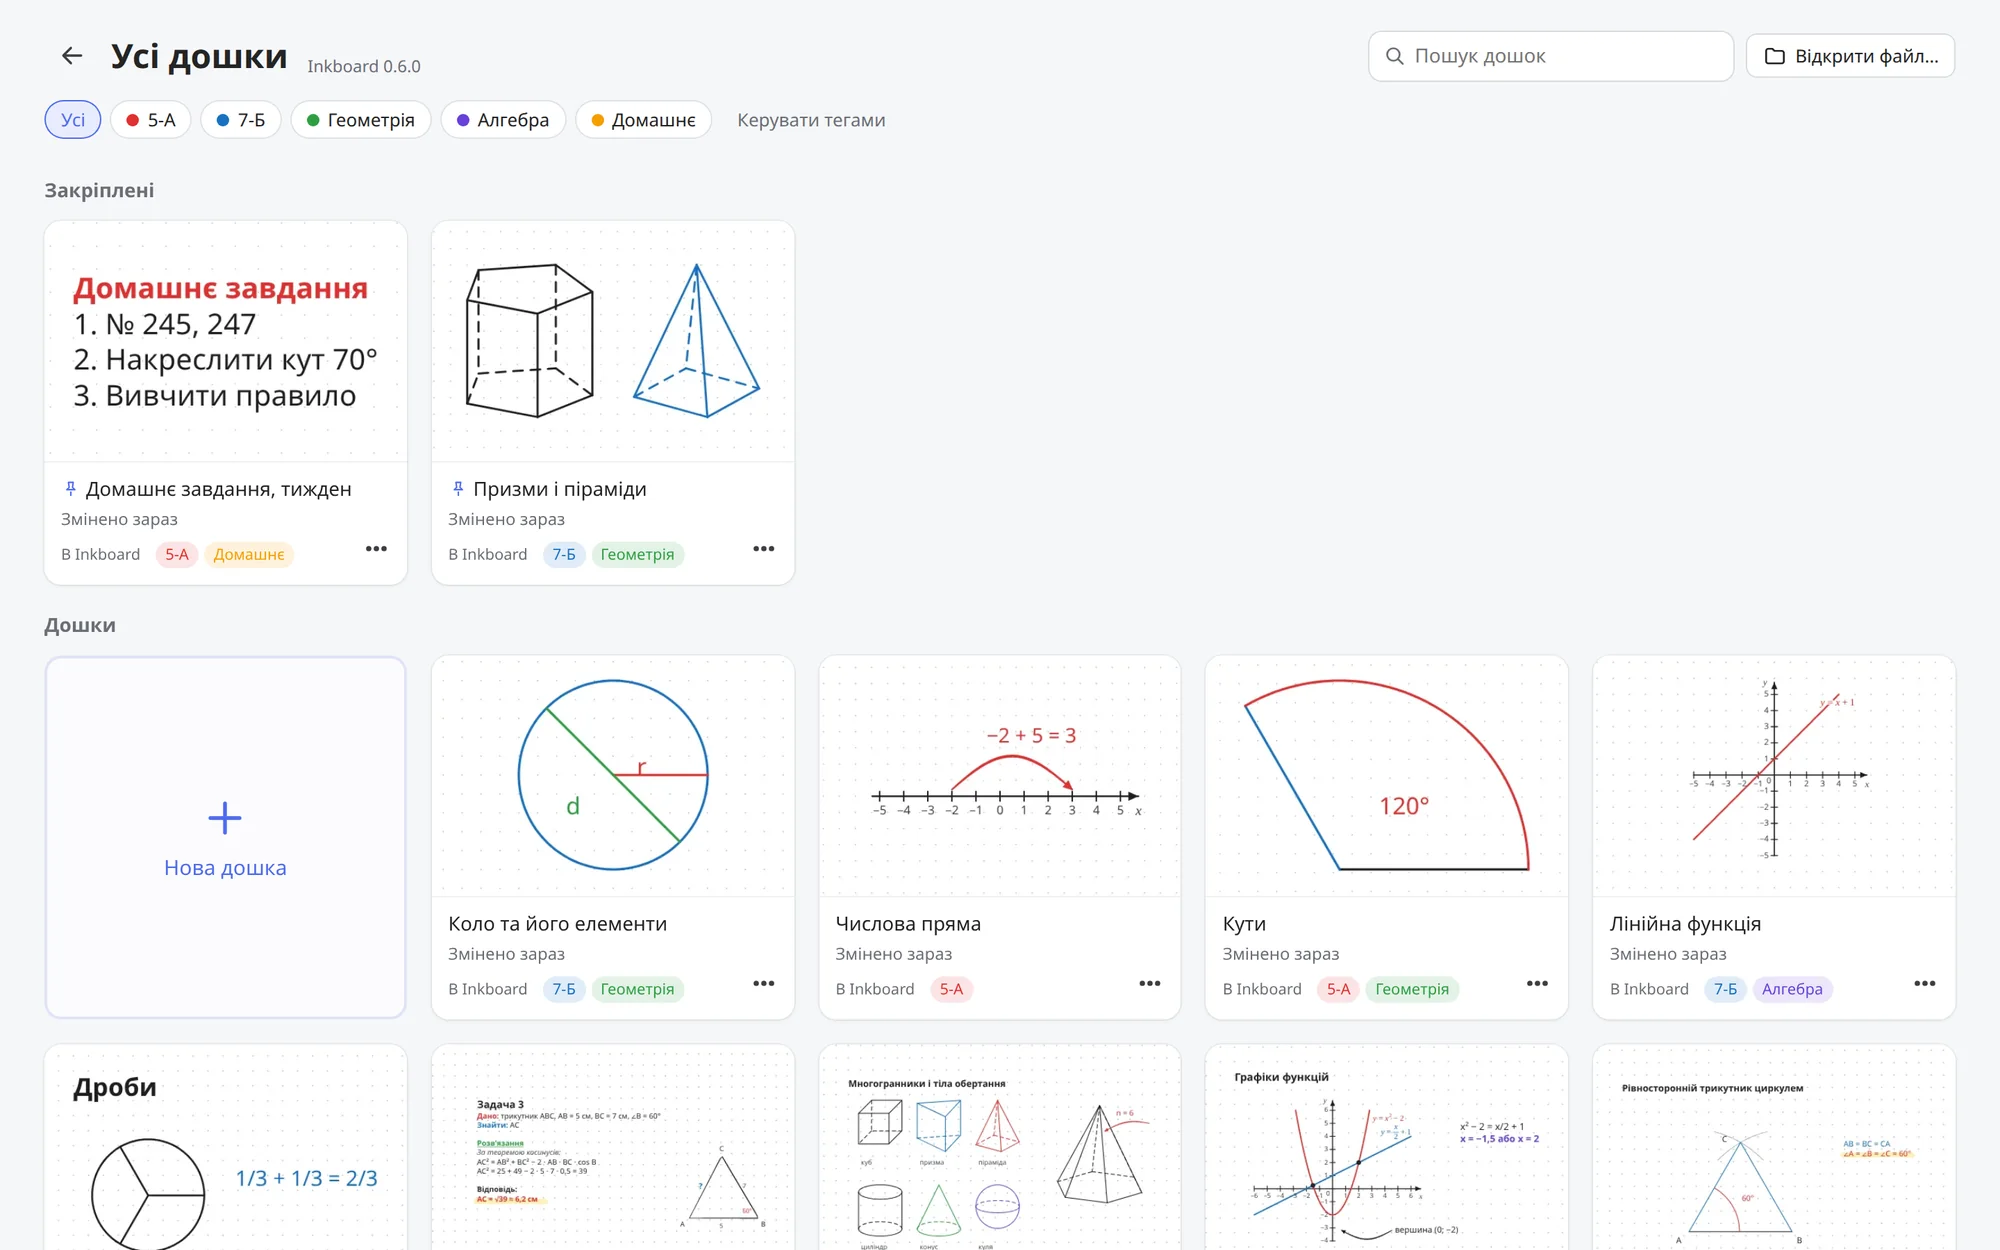
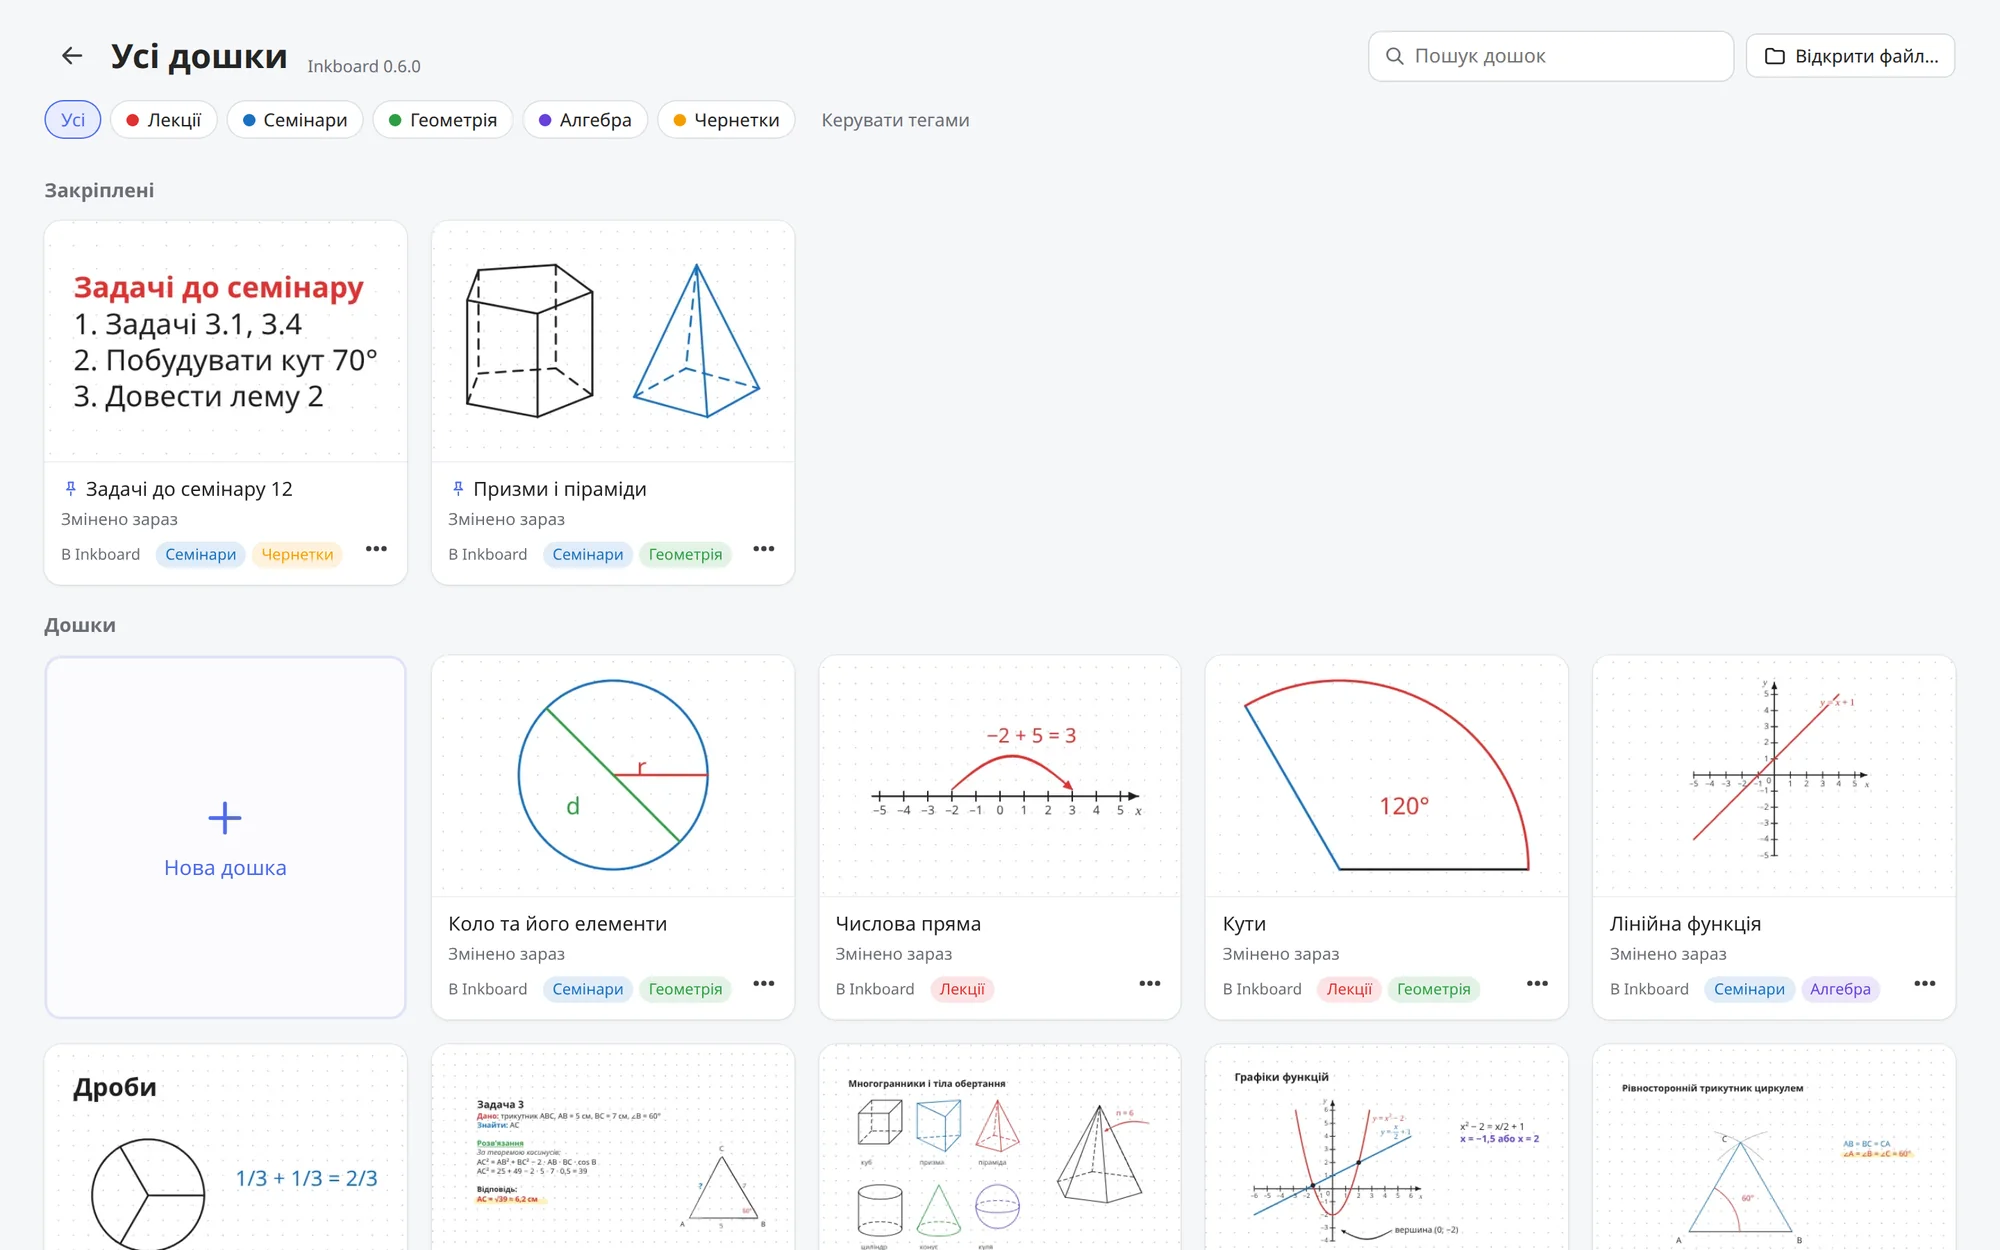
Site: talk about explaining in general, not school lessons
Copy and screenshots no longer assume a school: no lessons, pupils or class
tags. Boards are named Geometry / Compass constructions; tags are lectures,
seminars, subjects and drafts.

diff --git a/site/index.html b/site/index.html
@@ -4,13 +4,13 @@
 <meta charset="utf-8">
 <meta name="viewport" content="width=device-width, initial-scale=1">
 <title>Inkboard: безкоштовна дошка для графічного планшета</title>
-<meta name="description" content="Безкоштовна нескінченна дошка для вчителів і графічних планшетів: перо з натиском, транспортир і циркуль, графіки функцій, об’ємні фігури, текст. Зберігає все саме, навіть коли зникає світло. Windows, macOS, Linux.">
+<meta name="description" content="Безкоштовна нескінченна дошка для графічного планшета: для пояснень, лекцій і конспектів. Перо з натиском, транспортир і циркуль, графіки функцій, об’ємні фігури, текст. Зберігає все саме, навіть коли зникає світло. Windows, macOS, Linux.">
 <meta property="og:title" content="Inkboard: free whiteboard for pen tablets">
 <meta property="og:description" content="Infinite canvas, pressure-sensitive ink, protractor and compass, function graphs, 3D solids and text. Free and open source for Windows, macOS and Linux.">
 <meta property="og:image" content="https://yaroslavyushchenko.github.io/inkboard/img/social-preview.png">
 <meta property="og:image:width" content="1280">
 <meta property="og:image:height" content="640">
-<meta property="og:image:alt" content="Inkboard, a free whiteboard for teachers with a pen tablet">
+<meta property="og:image:alt" content="Inkboard, a free infinite whiteboard for pen tablets">
 <meta property="og:url" content="https://yaroslavyushchenko.github.io/inkboard/">
 <meta property="og:site_name" content="Inkboard">
 <meta property="og:type" content="website">
@@ -379,8 +379,8 @@
       </div>
       <div class="stage">
         <div class="window" id="window">
-          <img data-only="uk" src="img/hero-uk.webp" width="2000" height="1250" alt="Inkboard: дошка «Геометрія, урок 14» з транспортиром, шестикутною пірамідою і колом, накресленим циркулем на координатній площині">
-          <img data-only="en" src="img/hero-en.webp" width="2000" height="1250" loading="lazy" alt="Inkboard: the board “Geometry, lesson 14” with a protractor, a hexagonal pyramid and a circle drawn with the compass on a coordinate plane">
+          <img data-only="uk" src="img/hero-uk.webp" width="2000" height="1250" alt="Inkboard: дошка «Геометрія» з транспортиром, шестикутною пірамідою і колом, накресленим циркулем на координатній площині">
+          <img data-only="en" src="img/hero-en.webp" width="2000" height="1250" loading="lazy" alt="Inkboard: the board “Geometry” with a protractor, a hexagonal pyramid and a circle drawn with the compass on a coordinate plane">
         </div>
       </div>
     </div>
@@ -391,7 +391,7 @@
       <div class="ex-head">
         <div class="rv">
           <p class="eyebrow" data-i18n="ex.kicker">Приклади</p>
-          <h2 data-i18n="ex.title">Так виглядає урок</h2>
+          <h2 data-i18n="ex.title">Як це виглядає</h2>
           <p class="sub" data-i18n="ex.sub">Справжні знімки екрана Inkboard, без монтажу.</p>
         </div>
         <div class="seg rv d1" id="ex-tabs" role="tablist" aria-label="Приклади">
@@ -434,10 +434,10 @@
         </figure>
         <figure>
           <div class="frame">
-            <img data-only="uk" src="img/ex-home-uk.webp" width="2000" height="1250" loading="lazy" alt="Екран «Усі дошки»: прев’ю дощок, теги класів і тем, закріплені дошки, пошук">
-            <img data-only="en" src="img/ex-home-en.webp" width="2000" height="1250" loading="lazy" alt="The All boards screen: board previews, class and topic tags, pinned boards, search">
+            <img data-only="uk" src="img/ex-home-uk.webp" width="2000" height="1250" loading="lazy" alt="Екран «Усі дошки»: прев’ю дощок, теги предметів і тем, закріплені дошки, пошук">
+            <img data-only="en" src="img/ex-home-en.webp" width="2000" height="1250" loading="lazy" alt="The All boards screen: board previews, subject and topic tags, pinned boards, search">
           </div>
-          <figcaption><h3 data-i18n="ex.h5">Усі дошки</h3><p data-i18n="ex.c5">Прев’ю кожної дошки, кольорові теги для класів і тем, пошук, закріплені дошки й кошик на 30 днів.</p></figcaption>
+          <figcaption><h3 data-i18n="ex.h5">Усі дошки</h3><p data-i18n="ex.c5">Прев’ю кожної дошки, кольорові теги для предметів і тем, пошук, закріплені дошки й кошик на 30 днів.</p></figcaption>
         </figure>
       </div>
     </div>
@@ -448,7 +448,7 @@
       <div class="rv">
         <p class="eyebrow" data-i18n="f.kicker">Можливості</p>
         <h2 data-i18n="f.title">Зроблено для пера, а не для мишки</h2>
-        <p class="sub" data-i18n="f.sub">Inkboard з’явився для вчительки з планшетом Wacom, якій бракувало Microsoft Whiteboard. Тепер він для всіх.</p>
+        <p class="sub" data-i18n="f.sub">Для пояснень, лекцій, конспектів і чернеток: усе, що зручніше показати рукою, ніж мишкою.</p>
       </div>
       <div class="bento">
         <div class="tile wide rv">
@@ -501,7 +501,7 @@
             <text x="287" y="68" text-anchor="middle" font-family="Manrope, sans-serif" font-weight="800" font-size="20" fill="var(--accent)">PDF</text>
           </svg></div>
           <h3 data-i18n="f.exp.t">Експорт у PNG і PDF</h3>
-          <p data-i18n="f.exp.d">Роздайте учням конспект уроку або надрукуйте його. Без акаунта й без хмари: дошки лишаються на вашому комп’ютері.</p>
+          <p data-i18n="f.exp.d">Поділіться конспектом або надрукуйте його. Без акаунта й без хмари: дошки лишаються на вашому комп’ютері.</p>
         </div>
       </div>
     </div>
@@ -619,7 +619,7 @@
 
   <section class="final">
     <div class="wrap rv">
-      <h2 data-i18n="cta.title">Спробуйте на наступному уроці</h2>
+      <h2 data-i18n="cta.title">Почніть малювати вже сьогодні</h2>
       <a class="btn primary" href="#download">
         <svg viewBox="0 0 24 24" fill="none" stroke="currentColor" stroke-width="2.2" stroke-linecap="round" stroke-linejoin="round" aria-hidden="true"><path d="M12 4v11m0 0l-4.5-4.5M12 15l4.5-4.5M5 20h14"/></svg>
         <span class="p-label" data-i18n="hero.download">Завантажити</span>
@@ -654,7 +654,7 @@
     'hero.free': 'free, forever',
     'hero.for': 'For',
     'ex.kicker': 'Examples',
-    'ex.title': 'What a lesson looks like',
+    'ex.title': 'What it looks like',
     'ex.sub': 'Real screenshots of Inkboard, not mockups.',
     'ex.t1': 'Geometry', 'ex.t2': 'Graphs', 'ex.t3': '3D solids', 'ex.t4': 'Text', 'ex.t5': 'All boards',
     'ex.h1': 'Protractor and compass',
@@ -666,10 +666,10 @@
     'ex.h4': 'Formatted text',
     'ex.c4': 'Type right on the board. Make single words bold, italic, or a different colour or size.',
     'ex.h5': 'All boards',
-    'ex.c5': 'A preview of every board, colour tags for classes and topics, search, pinned boards and a 30-day bin.',
+    'ex.c5': 'A preview of every board, colour tags for subjects and topics, search, pinned boards and a 30-day bin.',
     'f.kicker': 'Features',
     'f.title': 'Made for a pen, not a mouse',
-    'f.sub': 'Inkboard started for a teacher with a Wacom tablet who missed Microsoft Whiteboard. Now it’s for everyone.',
+    'f.sub': 'For explanations, lectures, notes and rough work: anything that’s easier to show by hand than with a mouse.',
     'f.ink.t': 'Pressure-sensitive pen',
     'f.ink.d': 'Press harder for a thicker line. Lines are vector and stay sharp at any zoom, and your palm on the screen doesn’t draw.',
     'f.wacom.t': 'Wacom and other tablets',
@@ -684,7 +684,7 @@
     'f.lang.t': 'English and Ukrainian',
     'f.lang.d': 'The interface speaks both; switch in Settings.',
     'f.exp.t': 'Export to PNG and PDF',
-    'f.exp.d': 'Share the lesson notes with students or print them. No account and no cloud: your boards stay on your computer.',
+    'f.exp.d': 'Share your notes or print them. No account and no cloud: your boards stay on your computer.',
     's.kicker': 'Reliability',
     's.title': 'Power cut? The board is still there',
     's.sub': 'There’s no Save button because you don’t need one. Inkboard writes every board to disk by itself, safely, and keeps earlier versions.',
@@ -732,7 +732,7 @@
     'why.1': 'All the code is open: <a href="https://github.com/yaroslavyushchenko/inkboard">github.com/yaroslavyushchenko/inkboard</a>.',
     'why.2': 'The download files are built publicly by GitHub Actions straight from that code.',
     'why.3': 'The app collects no data and only goes online to check GitHub for updates.',
-    'cta.title': 'Try it in your next lesson',
+    'cta.title': 'Start drawing today',
     'cta.hand': 'no account, no ads, no subscription',
     'foot.license': 'free software under the GPL-3.0',
     'foot.code': 'Source code',
